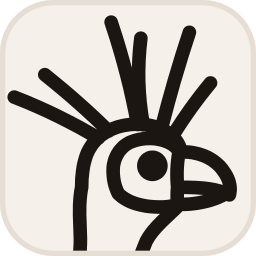
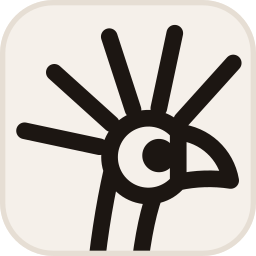
feat(brand): rebuild the Hoatzin mark from geometric primitives
The traced line art read hand-sketched at large sizes and smudged at
header size. The mark is now built from a few primitives:
- the face is a circle cut by a straight bill base;
- the bill is two arcs meeting at the tip;
- the crest is an even radial fan (20 degrees apart) centred on the face;
- the neck is one curve and the same curve shifted forward.
The eye keeps its position, so the wordmark lockup still aligns.

Full detail: seven lozenge feathers with spines, a ringed eye, three neck
bands and one faint guide circle around the eye. Simple detail (icons,
header lockup, favicons): five single-stroke feathers on the same fan,
with strokes that scale with the mark. The path data drops from about
15KB to 4KB. The favicon cache-buster moves to v=6.

Claude-Session: https://claude.ai/code/session_01WaWZzAi1asnSgKYBeS3y81

Changed region(s): [[0.0312, 0.0625, 0.9688, 1.0], [0.75, 0.3438, 0.7812, 0.375], [0.7188, 0.375, 0.75, 0.4062]]

diff --git a/frontend/src/shared/ui/skynet-mark.tsx b/frontend/src/shared/ui/skynet-mark.tsx
@@ -1,63 +1,77 @@
 import type { SVGProps } from "react";
 
 /**
- * Skynet's brand mark: a Hoatzin (Opisthocomus hoazin) head drawn as monochrome line art.
- * The lines are the visible edges of the colour bird it replaced (ragged crest, bare face
- * patch, ringed eye, heavy bill, streaked neck), so the silhouette and pose are unchanged.
+ * Skynet's brand mark: a Hoatzin (Opisthocomus hoazin) head as minimal geometric line art.
+ * It is built from a few primitives in a 512-unit drawing:
+ * - the face is a circle (centre 288,288, r 70) cut by a straight bill base;
+ * - the bill is two arcs meeting at the tip;
+ * - the crest is an even radial fan centred on the face circle;
+ * - the neck is one curve and the same curve shifted forward.
  * Every stroke is `currentColor`, so the mark takes the surrounding text colour in both
  * themes. The neck runs off the bottom edge on purpose; round containers clip it there.
  *
- * Two levels of detail, picked by rendered size so the lines never blur together:
- * - "full" (about 64px and up): feather outlines with shafts and tip bands, face contours,
- *   neck streaks and faint construction guides through the eye.
- * - "simple" (icon sizes): silhouette, face, eye, bill and the crest as single quills.
+ * Two levels of detail, picked by rendered size:
+ * - "full" (about 64px and up): seven lozenge feathers with spines, a ringed eye, three
+ *   neck bands and one faint guide circle around the eye.
+ * - "simple" (icon sizes, and the favicons): five single-stroke feathers, a solid eye and
+ *   strokes that scale with the mark so they stay distinct at 16-32px.
  */
 
 export type HoatzinDetail = "full" | "simple";
 
-// Square crop of the 512-unit source drawing, centred on the bird.
+// Square crop of the 512-unit drawing, centred on the bird.
 export const HOATZIN_VIEWBOX = "-2 12 500 500";
 
 // Tight crop for the wordmark lockup: crest tips to mid-neck, no side padding.
 export const HOATZIN_LOCKUP_VIEWBOX = "48 12 400 432";
 
+// The wordmark lockup aligns the letters' centre line to this point.
 const EYE = { cx: 306.9, cy: 285.2 };
 
-// Outlines, already clipped where a shape painted above them would hide them.
-const FULL_MAIN =
-  "M355.8 254.1L353.6 248.6 351.6 245M190.5 267.5L188.2 274.5M184.4 292.7L183.6 299.6 182.8 308 182.4 323 181.1 330.1 180.2 337.2 179.5 344.2 178.9 354.5 178.8 371.4 180.2 413.3 180.1 422.9 179.6 432.7 178.2 445.8 175.8 462.5 166.8 512M268.2 512L270.3 500.6 273.6 485.7 276.3 475 280.3 461.2 284.5 448.1 289 435.7 294.7 421.3 295.8 418.6 297.3 415.8 300.6 410.2 304.3 404.9 308.3 399.7 314.8 392.3 324.1 382.7 347.6 360.5 355.5 352.2M355.8 261.3L355.8 254.1M221.9 512L232.2 472.1 236.8 453 241.6 429.3 245.2 408.4 246.6 398.1 247.7 388.1 248.4 378.1 248.6 371.6 248.6 361.9 248.3 355.5 247.7 349.2 246.9 343M348.6 253.8L354.8 239.2 360.7 226.1 366.8 213.1 375.4 196.1 382.2 183.6 391.7 167.2 401.6 151.1 409.3 139.3 392.5 156.3 376 173.6 360 191.1 341.7 211.9M338.3 244.4L341.7 216.2 344.6 195.2 347.7 174.2 352.3 146.4 356.1 125.6 361.5 98 367.4 70.6 372.1 50.1 344.7 115.1 319.2 177.9M323.6 235.1L321.2 197.9 318.6 160.7 315.6 123.4 312.4 86.2 309.1 112.5 305.1 138.8 300.6 165 295.1 192.4M307.3 228.5L298.3 200.1 289.2 172.9M280.4 147.9L268.4 115.6 257.5 87.7 246.1 59.9 234.3 32.2 239.2 53.9 242.3 68.5 246.4 90.4 250.1 112.5 253.3 134.7 256.1 157 258.3 179.4 259.6 194.6M283.4 229.4L275.8 217.4 265.2 201.7 254.3 186.2 245.8 174.8 237 163.4 225 148.5 215.7 137.5 202.9 123 209.6 135.5 213.9 143.9 218 152.4 223.8 165.4 229.2 178.5 232.6 187.4 237.4 201 240.8 211.6M265.5 229.5L229.3 202.4 192.6 175.9 155.3 150 117.5 124.7 140.4 147.4 162.6 170.8 184.1 194.9 201.1 214.9M249.3 236.3L223.7 224.3 204.2 215.6 184.7 207.3 158.3 196.7 138.3 189.2 111.4 179.6 91.1 172.8 63.7 164.2 82.7 173.7 101.4 183.7 119.9 194.2 132 201.5 144.1 209 162 220.6 179.6 232.7 196.9 245.2M233.8 247.6L218.8 246.1 198.8 244.7 183.8 243.9 163.7 243.4 143.4 243.4 128.2 243.7 113 244.4 92.6 245.7 107.5 247.8 117.4 249.4 132.1 252.2 146.8 255.5 156.6 257.9 171.2 262 185.7 266.5 198.9 271M223.4 263.4L207.9 267.7 196.4 271.2 185 275 169.8 280.6 154.8 286.6 143.6 291.4 128.7 298.3 117.7 303.8 129.4 301 145.1 297.8 157 296 173 294.2 185.1 293.3 201.4 292.8 217.9 293 230.4 293.7M303.6 235.9L298.6 217.3 295.7 204.8 293.1 192.4 289.9 173.7 288.2 161.2 286.8 148.7 285.4 129.8 284.8 117.3 284.6 104.7 284.8 92.1 285.2 79.5 286.6 60.5 283.9 79.5 282.4 92.2 281.3 104.9 280.2 123.8 279.9 136.4 279.8 149 280.1 161.6 280.6 174.1 282 192.9 283.3 205.5 285 218 288 236.7M354.9 261.3L352.6 257.6 349.6 254 346.2 250.8 342.4 247.9 338.3 245.4 333.7 243.2 328.8 241.3 323.6 239.7 318 238.5 312.3 237.6 306.6 237.1 300.9 237 295.3 237.2 289.8 237.8 284.3 238.7 277.2 240.4 272 242.1 266.9 244.1 262 246.9 257.5 250.1 254.7 252.6 250.9 256.7 248.5 259.6 245.4 264.4 243.6 267.9 241.2 273.3 240 277.2 238.6 283.3 238 287.5 237.8 295 238 300.4 238.5 305.7 239.2 310.8 240.2 315.7 241.5 320.6 243.1 325.2 244.9 329.7 246.9 334.1 250.4 337.3 254.1 340.3 258 342.9 264.3 346.5 268.8 348.6 273.4 350.4 278.2 352 285.6 354 295.7 356 300.9 356.7 308.8 357.4 317 357.7 322.5 357.8 327.7 357.6 334.5 357 339.2 356.3 345.2 355.2 350.8 353.7 355.1 352.2M331.4 285.2L330.9 290 329.5 294.6 327.3 298.8 324.2 302.5 320.5 305.6 316.3 307.8 311.7 309.2 306.9 309.7 302.1 309.2 297.5 307.8 293.3 305.6 289.6 302.5 286.5 298.8 284.3 294.6 282.9 290 282.4 285.2 282.9 280.4 284.3 275.8 286.5 271.6 289.6 267.9 293.3 264.8 297.5 262.6 302.1 261.2 306.9 260.7 311.7 261.2 316.3 262.6 320.5 264.8 324.2 267.9 327.3 271.6 329.5 275.8 330.9 280.4 331.4 285.2M315.1 285.2L314.9 286.8 314.5 288.3 313.7 289.8 312.7 291 311.5 292 310 292.8 308.5 293.2 306.9 293.4 305.3 293.2 303.8 292.8 302.3 292 301.1 291 300.1 289.8 299.3 288.3 298.9 286.8 298.7 285.2 298.9 283.6 299.3 282.1 300.1 280.6 301.1 279.4 302.3 278.4 303.8 277.6 305.3 277.2 306.9 277 308.5 277.2 310 277.6 311.5 278.4 312.7 279.4 313.7 280.6 314.5 282.1 314.9 283.6 315.1 285.2M437.4 333.4L429.1 337.9 419.5 342.2 409.2 345.7 398.5 348.5 387.4 350.7 381.8 351.5 373.3 352.5 364.7 353 357.9 352.9 353.8 352.6 351.4 351.9 350.9 346.9 350.6 341.7 350.6 335.3 350.8 329 351.4 323 351.4 319.7M353.6 260.8L360.7 260.6 371.2 261.1 378 262 387.9 264.2 397.3 267.3 403.2 269.9 406.1 271.4 411.6 274.6 414.2 276.4 419.2 280.2 423.9 284.4 426 286.6 430 291.3 435.4 299.3 437.8 303.5 439.9 307.8 441.5 312.1 442.3 314.9 443.2 319.2 443.6 322.1 443.8 326.4 443.7 329.2 443.1 333.5 442.5 336.4 438.1 334.3 433.4 332.4 424.9 329.6 415.7 327.3 406 325.6 395.7 324.4 381.7 323.5 368.3 323.1 351.4 323 350.8 316.5 350.4 307.7 350.3 300.9 350.4 291.9 350.8 285.1 351.6 276.1 353.6 260.8M335.8 323.6L341.9 324.8 348 325.2 354.2 324.8 360.3 323.6";
+const FACE = "M341.6 243A70 70 0 1 0 341.6 333Z";
+const BILL = "M341.6 243A105 105 0 0 1 436 330A260 260 0 0 0 341.6 333";
+const NECK = "M222.2 311.9Q200 410 190 524M298.3 357.2Q277.6 415.1 268 524";
+const NECK_BANDS = "M219.4 418L269.6 406M214.3 454L262.6 442M209.9 490L257.3 478";
 
-// Feather shafts and tip bands, face shade lines, throat fold and neck streaks.
-const FULL_DETAIL =
-  "M355.7 124.4L362.7 108.1 371.8 88 381.1 68 390.7 48.1 373.3 80.6 358.5 109.6M288 164.1L287 156.2M281.3 114.9L276.1 83.9 271.8 60.4 267.2 37 262.1 13.7 267.5 45 272.1 76.4 275.9 107.9 277.5 123.7 279.6 146.8M229.5 177.6L216.7 161.1 206.6 148.5 191.2 129.8 180.6 117.5 170 105.4 153.6 87.4 142.5 75.6 125.5 58.2 141.7 76.2 157.5 94.6 172.9 113.3 187.8 132.4 202.3 151.8 216.4 171.5 230.1 191.6 239.8 206.4M140.9 206.2L114.6 199.4 93.1 194.3 71.5 189.5 49.8 185 78.4 192.3 106.7 200.3 134.8 208.9 156.2 216M133.1 251.8L116.2 253 97.4 254.8 78.5 256.9 59.7 259.4 78.5 257.9 103.7 256.5 128.8 255.9 151.6 256M245.3 81.1L239.5 72.4 234.8 64.9 230.2 57.2 225.9 49.4 231.7 64 237 76.4 242.7 88.5 248.9 101M123.4 184.4L112.1 177.3 101.6 170.1 89.8 160.9 80.2 152.6 91.7 165.3 104.3 177.8M246.9 340.8L250.8 344.2 257.2 348.9 261.8 351.7 269 355.3 274 357.5 281.8 360.1 289.9 362.3 298.2 363.8 306.6 364.8 315.2 365.3 322.2 365.2 327.6 364.7 334 363.5 339.9 361.8 345.4 359.6 351.4 356.4M268 507.6L267.9 496.9 268.6 482.7 269.8 472.1 272.1 458.4 275.2 445 278.2 435.4 280.4 429.1 282.9 423 285.5 417.1 288.1 411.8 292.4 404.7 297.5 397.6 303.3 390.7 307.5 386.3 311.9 381.9 318.9 375.7 328.8 367.9 339.1 361 346.9 356.4M263.6 363.3L257.6 398.4M251.7 422.8L243.7 456M238.3 476.5L230.2 508M201.8 329L199.5 371.7M199.5 376.4L198.4 419M198.2 422.4L193.1 462.8M192.5 466.2L184 508.4M229.2 359.1L227 402.2M226.6 405.7L220.9 447.1M220.3 450.1L212.2 487.5M211.4 490.5L206.4 512M206.7 292.2L202.4 316.4M226.7 292.9L220.2 331.9M195.8 309.7L191.3 347.5M409.3 139.3L400.4 150.3 391.6 161.4 380.3 176.5 372 188 361.3 203.5 353.5 215.3 345.8 227.2 338.2 239.6M375.4 196.1L363.2 187.5M372.1 50.1L359.2 90.1 345.1 137 333.8 177.5 322.2 221.7M319 234.3L318 238.5M350.6 156.3L330.2 150.5M312.4 86.2L311.6 123.2 310.3 154.9 308.1 191.9 305.5 224.8M305.2 228.4L304.7 234.1M318.5 160.7L301.6 159.8M234.3 32.2L243.5 60.5 249.9 81.9 258 110.5 263.6 132.1 268.8 153.8 275.1 182.9 279.5 204.8 284.7 234.1M277.9 140.9L254.9 146.7M202.9 123L213.7 138.6 221.5 150.5 228.9 162.5 236 174.8 242.9 187.2 249.3 199.7 255.5 212.5 262.5 227.9M263.6 230.7L266.9 238.5M243.3 171.5L229.5 179.2M117.5 124.7L132.5 136.9 147.4 149.2 162.1 161.7 176.6 174.4 191 187.3 205.2 200.4 219.2 213.6 237.4 231.3M246.5 240.4L251.3 245.2M197.5 179.4L183.8 194.6M63.7 164.2L83.5 172.1 103.1 180.5 128.8 192.2 147.9 201.5 166.8 211.2 191.6 224.8 210 235.5 230.3 247.8M232.9 249.5L240.2 254.1M166.7 200L157.7 217.7M92.6 245.7L112.7 246.5 127.7 247.5 142.7 248.9 162.5 251.3 182.3 254.4 197.1 257.2 216.7 261.5 231.3 265.2M163.7 243.4L161.4 259.2M117.7 303.8L129.1 299.6 144.3 294.6 155.9 291.3 171.4 287.4 183.1 284.8 198.9 282 214.9 279.8 226.9 278.6M167.9 281.2L171 294.4M286.6 60.5L284.6 79.5 283.6 92.1 283 104.7 282.6 123.7 282.8 136.2 283.3 148.8 284.1 161.3 285.3 173.9 287.6 192.7 290.6 211.4 293 223.8 295.8 236.3M287.4 154.6L279.9 155M351.4 345.4L344.1 346.9 336 348 327.7 348.4 319.3 348.3 310.8 347.5 300.1 345.8 292.8 344 285.4 341.5 278.3 338.4 271.5 334.8 265.2 330.7 259.4 326.1 254.1 321 249.2 315.4 244.9 309.4 242.4 305.2M266.9 244.1L274.5 243.8 280.2 243.9 291.5 244.7 297 245.5 302.4 246.5 307.7 247.7 312.9 249.1 319.7 251.4 324.5 253.3 330.8 256.1 335.2 258.3 340.8 261.6 344.7 264.2 349.5 268 352.8 270.9M326.4 285.2L326 289 324.9 292.7 323.1 296 320.7 299 317.7 301.4 314.4 303.2 310.7 304.3 306.9 304.7 303.1 304.3 299.4 303.2 296.1 301.4 293.1 299 290.7 296 288.9 292.7 287.8 289 287.4 285.2 287.8 281.4 288.9 277.7 290.7 274.4 293.1 271.4 296.1 269 299.4 267.2 303.1 266.1 306.9 265.7 310.7 266.1 314.4 267.2 317.7 269 320.7 271.4 323.1 274.4 324.9 277.7 326 281.4 326.4 285.2M442.5 336.4L438 328.7 433 321.3 427.6 314.4 423.7 310 417.5 303.8 413.1 300 406.2 294.8 401.3 291.7 393.5 287.5 388.1 285.1 382.5 283 377.8 281.8 372.1 280.8 365.6 280.2 359.4 280.2 352.5 280.8M372.5 282.5L373.8 284.1 375.7 285.9 377.2 287 379.3 288 381 288.4 383.5 288.7 385.4 288.5 388.1 288";
+// Seven feathers 20° apart (168° to 48°), each a lozenge from r 84 to r 236 around the face centre.
+const CREST =
+  "M205.8 270.5L158.5 273.8 57.2 238.9 163.9 248.3Z" +
+  "M216.8 243.5L171.2 230.3 87.9 162.9 185 208.3Z" +
+  "M236.3 221.8L198 193.9 142.7 102 218.5 177.9Z" +
+  "M262 208.1L235.6 168.8 215.1 63.6 260.3 160.7Z" +
+  "M290.9 204.1L279.5 158 296.2 52.1 305.5 158.9Z" +
+  "M319.5 210.1L324.5 163 376.4 69.2 348.6 172.7Z" +
+  "M344.2 225.6L365.1 183 445.9 112.6 384.4 200.4Z";
+const CREST_SPINES =
+  "M205.8 270.5L113.7 250.9M216.8 243.5L136.8 193.5M236.3 221.8L178.3 147.5M262 208.1L232.9 118.5" +
+  "M290.9 204.1L294.2 109.9M319.5 210.1L354.8 122.7M344.2 225.6L407.3 155.5";
 
-// A circle on the eye that bounds the bare face, the eye's horizon and the bill's axis.
-const FULL_GUIDES = "M378.9 285.2L378.4 293.7 377.5 299.2 376.2 304.7 373.4 312.8 369.7 320.4 366.8 325.2 363.4 329.8 357.8 336.1 353.7 339.9 346.9 345.1 342.1 348 334.5 351.7 326.4 354.5 320.9 355.8 312.5 357 306.9 357.2 301.3 357 292.9 355.8 287.4 354.5 279.3 351.7 271.7 348 266.9 345.1 262.3 341.7 256 336.1 252.2 332 247 325.2 244.1 320.4 240.4 312.8 238.4 307.4 236.3 299.2 235.1 290.8 234.9 285.2 235.1 279.6 236.3 271.2 238.4 263 240.4 257.6 244.1 250 247 245.2 250.4 240.6 256 234.3 262.3 228.7 266.9 225.3 271.7 222.4 279.3 218.7 287.4 215.9 292.9 214.6 301.3 213.4 306.9 213.2 312.5 213.4 320.9 214.6 326.4 215.9 334.5 218.7 339.6 221 346.9 225.3 353.7 230.5 357.8 234.3 361.6 238.4 366.8 245.2 369.7 250 373.4 257.6 376.2 265.7 377.5 271.2 378.4 276.7 378.9 285.2M196 285.2L470 285.2M306.9 285.2L454 345";
-
-const SIMPLE =
-  "M409.3 139.3L400.4 150.3 391.6 161.4 383.1 172.7 374.7 184.1 366.6 195.7 358.6 207.4 350.9 219.2 341.8 233.7M372.1 50.1L359.2 90.1 345.1 137 333.8 177.5 322.4 220.9M286.6 60.5L284.6 79.5 283.3 98.4 282.7 117.4 282.8 136.2 283.7 155.1 285.3 173.9 287.6 192.7 290.9 213M234.3 32.2L243.5 60.5 249.9 81.9 256 103.4 261.7 124.9 267.1 146.6 272 168.3 276.6 190.1 280.9 212.5M117.5 124.7L132.5 136.9 147.4 149.2 162.1 161.7 176.6 174.4 191 187.3 205.2 200.4 229.9 224M63.7 164.2L83.5 172.1 103.1 180.5 122.4 189.2 141.6 198.4 160.5 208 179.3 217.9 197.8 228.3 211.8 236.5M92.6 245.7L107.7 246.2 117.7 246.8 127.7 247.5 142.7 248.9 152.6 250 167.5 252 182.3 254.4 195.8 257M355.8 254.1L354.8 251.3 352.2 245.9 350.7 243.4 347.2 238.5 345.2 236.2 340.9 232 336.1 228.1 330.8 224.6 328 223 322.1 220.1 315.8 217.6 309.2 215.6 302.3 214 295.1 212.8 284 212 275.7 212 271.3 212.2 267 212.6 258.5 213.8 254.4 214.6 246.4 216.6 242.6 217.9 235.2 220.8 231.7 222.4 224.9 226.1 218.6 230.2 215.6 232.5 210 237.4 207.4 240.1 202.5 245.7 200.3 248.7 196.3 255 194.5 258.3 192.8 261.7 190.6 267.1 188.7 273 186.6 280.9 185.3 287.1 184.1 295.4 182.8 308 182.4 323 181.1 330.1 180.2 337.2 179.5 344.2 178.9 354.5 178.8 371.4 180.2 413.3 180.1 422.9 179.6 432.7 178.2 445.8 175.8 462.5 166.8 512M268.2 512L270.3 500.6 273.6 485.7 276.3 475 280.3 461.2 284.5 448.1 289 435.7 294.7 421.3 295.8 418.6 297.3 415.8 300.6 410.2 304.3 404.9 308.3 399.7 314.8 392.3 324.1 382.7 347.6 360.5 355.5 352.2M355.8 261.3L355.8 254.1M221.9 512L232.2 472.1 236.8 453 241.6 429.3 245.2 408.4 246.6 398.1 247.7 388.1 248.4 378.1 248.6 371.6 248.6 361.9 248.3 355.5 247.7 349.2 246.9 343M354.9 261.3L352.6 257.6 349.6 254 346.2 250.8 342.4 247.9 338.3 245.4 333.7 243.2 328.8 241.3 323.6 239.7 318 238.5 312.3 237.6 306.6 237.1 300.9 237 295.3 237.2 289.8 237.8 284.3 238.7 277.2 240.4 272 242.1 266.9 244.1 262 246.9 257.5 250.1 254.7 252.6 250.9 256.7 248.5 259.6 245.4 264.4 243.6 267.9 241.2 273.3 240 277.2 238.6 283.3 238 287.5 237.8 295 238 300.4 238.5 305.7 239.2 310.8 240.2 315.7 241.5 320.6 243.1 325.2 244.9 329.7 246.9 334.1 250.4 337.3 254.1 340.3 258 342.9 264.3 346.5 268.8 348.6 273.4 350.4 278.2 352 285.6 354 295.7 356 300.9 356.7 308.8 357.4 317 357.7 322.5 357.8 327.7 357.6 334.5 357 339.2 356.3 345.2 355.2 350.8 353.7 355.1 352.2M331.4 285.2L330.9 290 329.5 294.6 327.3 298.8 324.2 302.5 320.5 305.6 316.3 307.8 311.7 309.2 306.9 309.7 302.1 309.2 297.5 307.8 293.3 305.6 289.6 302.5 286.5 298.8 284.3 294.6 282.9 290 282.4 285.2 282.9 280.4 284.3 275.8 286.5 271.6 289.6 267.9 293.3 264.8 297.5 262.6 302.1 261.2 306.9 260.7 311.7 261.2 316.3 262.6 320.5 264.8 324.2 267.9 327.3 271.6 329.5 275.8 330.9 280.4 331.4 285.2M437.4 333.4L429.1 337.9 419.5 342.2 409.2 345.7 398.5 348.5 387.4 350.7 381.8 351.5 373.3 352.5 364.7 353 357.9 352.9 353.8 352.6 351.4 351.9 350.9 346.9 350.6 341.7 350.6 335.3 350.8 329 351.4 323 351.4 319.7M353.6 260.8L360.7 260.6 371.2 261.1 378 262 387.9 264.2 397.3 267.3 403.2 269.9 406.1 271.4 411.6 274.6 414.2 276.4 419.2 280.2 423.9 284.4 426 286.6 430 291.3 435.4 299.3 437.8 303.5 439.9 307.8 441.5 312.1 442.3 314.9 443.2 319.2 443.6 322.1 443.8 326.4 443.7 329.2 443.1 333.5 442.5 336.4 438.1 334.3 433.4 332.4 424.9 329.6 415.7 327.3 406 325.6 395.7 324.4 381.7 323.5 368.3 323.1 351.4 323 350.8 316.5 350.4 307.7 350.3 300.9 350.4 291.9 350.8 285.1 351.6 276.1 353.6 260.8";
+// Five feathers 30° apart on the same fan, as single strokes from r 90 to r 228.
+const CREST_SIMPLE =
+  "M200 269.3L65 240.6M221.1 227.8L118.6 135.4M260.2 202.4L217.5 71.2M306.7 200L335.4 65M348.2 221.1L440.6 118.6";
 
 /**
- * The bird's lines, for nesting inside another SVG. Strokes don't scale with the drawing,
- * so line weights stay crisp at any size; the caller picks the detail level for its size.
+ * The bird's strokes in the 512-unit drawing, for embedding in another SVG (the wordmark
+ * lockup). Renders at any size; the caller picks the detail level for its size.
  */
 export function HoatzinShapes({ detail = "full" }: { detail?: HoatzinDetail }) {
+  if (detail === "simple") {
+    return (
+      <g fill="none" stroke="currentColor" strokeWidth={26} strokeLinecap="round" strokeLinejoin="round">
+        <path d={CREST_SIMPLE + FACE + BILL + NECK} />
+        <circle {...EYE} r={26} fill="currentColor" stroke="none" />
+      </g>
+    );
+  }
   const line = { vectorEffect: "non-scaling-stroke" } as const;
   return (
     <g fill="none" stroke="currentColor" strokeLinecap="round" strokeLinejoin="round">
-      {detail === "full" ? (
-        <>
-          <path d={FULL_GUIDES} strokeWidth={0.5} strokeOpacity={0.4} {...line} />
-          <path d={FULL_DETAIL} strokeWidth={0.75} strokeOpacity={0.85} {...line} />
-          <path d={FULL_MAIN} strokeWidth={1.4} {...line} />
-          <circle {...EYE} r={3.5} fill="currentColor" stroke="none" />
-        </>
-      ) : (
-        <>
-          <path d={SIMPLE} strokeWidth={1.25} {...line} />
-          <circle {...EYE} r={9} fill="currentColor" stroke="none" />
-        </>
-      )}
+      <circle {...EYE} r={44} strokeWidth={0.75} strokeOpacity={0.35} {...line} />
+      <path d={CREST_SPINES + NECK_BANDS} strokeWidth={1} {...line} />
+      <path d={CREST + FACE + BILL + NECK} strokeWidth={1.5} {...line} />
+      <circle {...EYE} r={26} strokeWidth={1.5} {...line} />
+      <circle {...EYE} r={15} strokeWidth={1} {...line} />
+      <circle {...EYE} r={6} fill="currentColor" stroke="none" />
     </g>
   );
 }

diff --git a/frontend/src/shared/lib/color-theme.ts b/frontend/src/shared/lib/color-theme.ts
@@ -55,7 +55,7 @@ export function applyResolvedColorTheme(resolved: ResolvedColorTheme): void {
   root.style.colorScheme = resolved === "dark" ? "dark" : "light";
   // The tab icon follows the painted theme, not the OS, so a Dark choice on a
   // light OS still gets the dark tile.
-  const href = resolved === "dark" ? "/favicon-dark.svg?v=5" : "/favicon.svg?v=5";
+  const href = resolved === "dark" ? "/favicon-dark.svg?v=6" : "/favicon.svg?v=6";
   document.querySelectorAll<HTMLLinkElement>('link[rel~="icon"]').forEach((link) => {
     if (link.getAttribute("href") !== href) link.href = href;
   });

diff --git a/frontend/src/app/layout.tsx b/frontend/src/app/layout.tsx
@@ -119,8 +119,8 @@ export async function generateMetadata(): Promise<Metadata> {
     icons: {
       // Versioned to evict browsers' sticky favicon caches, which survive
       // hard refreshes and kept serving the original robot-arm icon.
-      icon: "/favicon.svg?v=5",
-      apple: "/favicon.svg?v=5",
+      icon: "/favicon.svg?v=6",
+      apple: "/favicon.svg?v=6",
     },
     metadataBase: new URL(siteUrl),
     alternates: {
